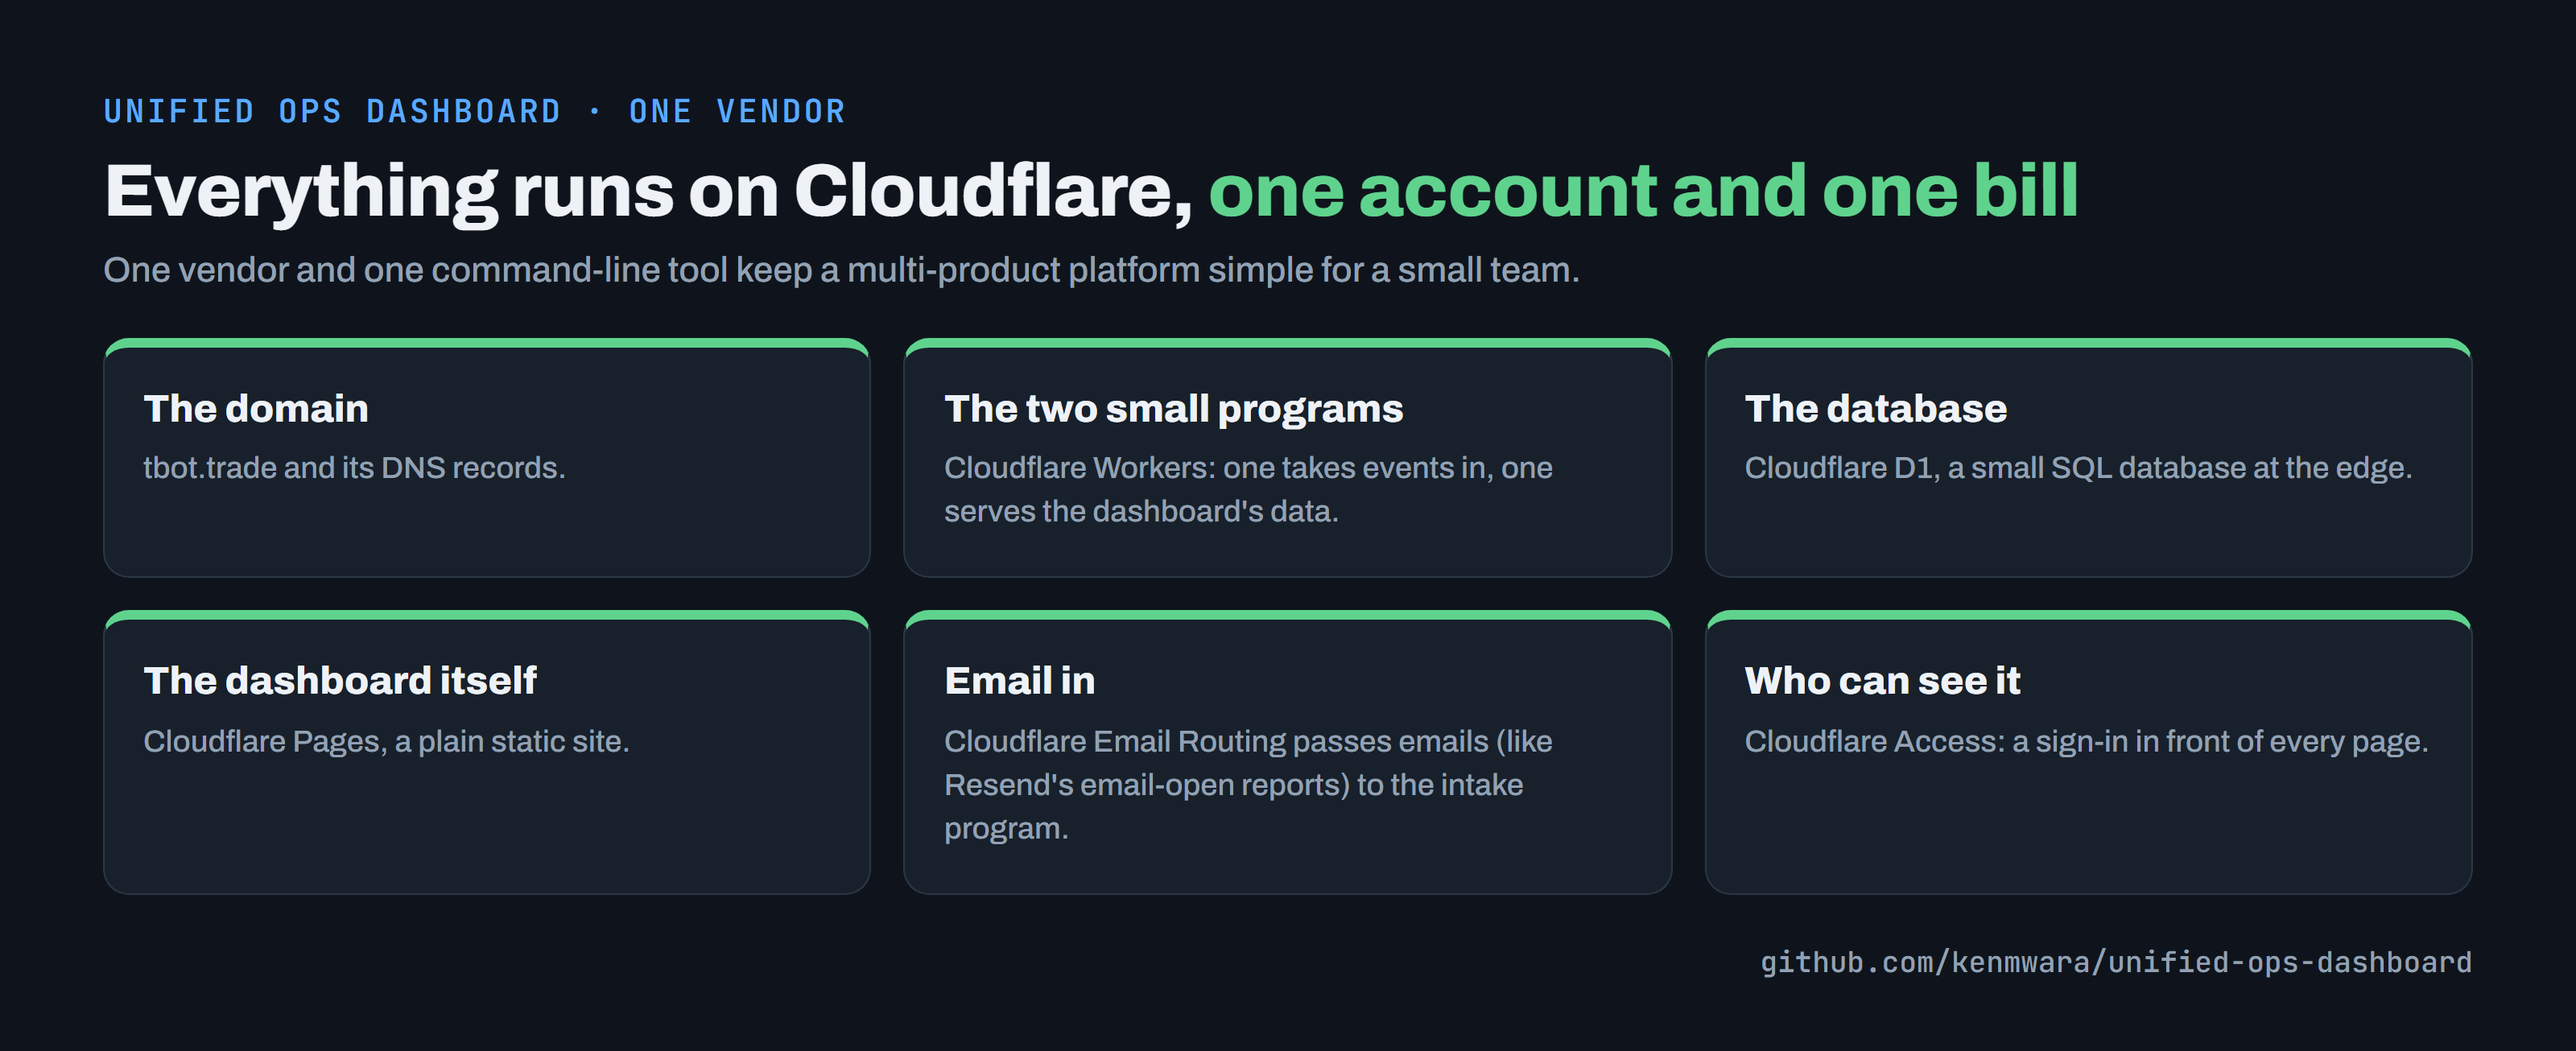
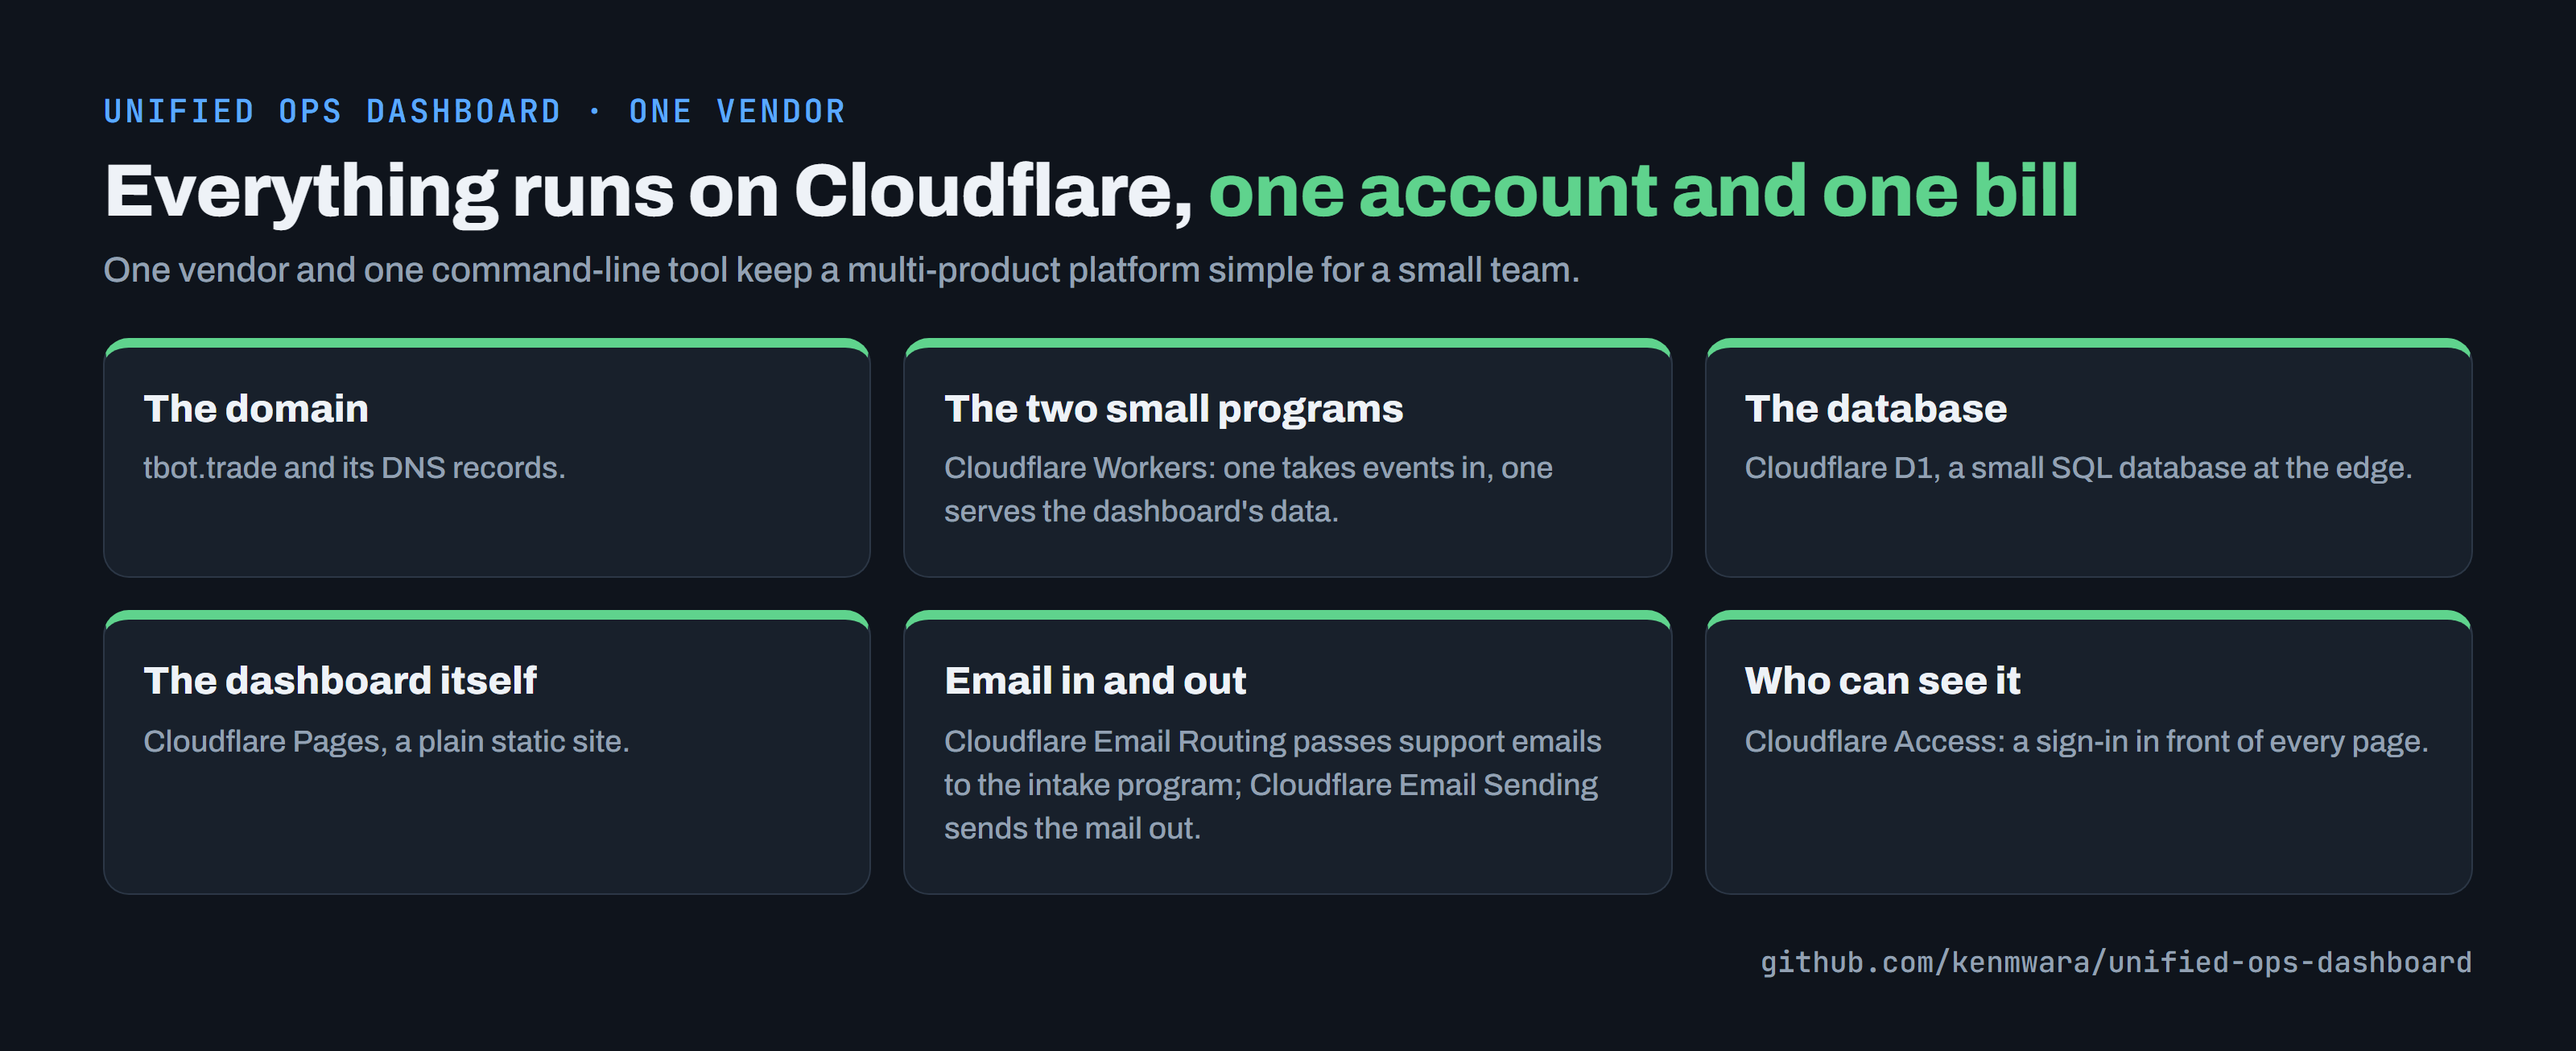
README: At a glance flow (one update, product to screen); email now Cloudflare Email Sending (Resend replaced 1 Oct 2026), architecture + Cloudflare frames re-rendered

Changed region(s): [[0.3438, 0.6738, 0.625, 0.7963], [0.4062, 0.6432, 0.5, 0.6738]]

diff --git a/README.md b/README.md
@@ -5,12 +5,18 @@
 > One dashboard for every product: sales, sign-ups, replies and errors from each app land in one place, so it's easy to see what's working each week.
 
 🌐 **Live:** ops.tbot.trade *(behind Cloudflare Access — operator only; see screenshots below)*
-🏗 **Stack:** Cloudflare D1 + Workers + Pages + Email Routing + Resend
+🏗 **Stack:** Cloudflare D1 + Workers + Pages + Email Routing + Email Sending
 🔒 **Source:** private — this README + screenshots are the showcase
 
 ---
 
 <img src="images/flow.png" width="100%" alt="How it works, in five steps. 1. Products send updates: Sales, sign-ups, replies and errors from every product. 2. Each update is checked: It must carry the right product's key, and payments must be signed. 3. Stored once, never edited: One database; duplicates are dropped. 4. Summaries are built: Totals, a timeline of incidents, and questions you can ask in plain English. 5. The owner sees it all: A private dashboard behind a login wall; alerts to a phone. Safeguards: Who can write: Only a product with its own key can send updates; Trust: Nothing is changed after the fact; Who can read: Every page needs a sign-in.">
+
+## At a glance
+
+<img src="images/event-flow.png" width="100%" alt="Flow diagram of one update, from a product to the screen. A product sends an update: a sale, a sign-up, a reply or an error. It goes to the intake program, carrying that product's own secret key. Decision: does the key match a known product? No: turned away, nothing saved; the intake program is the only way into the database. Yes: the key decides which product it is, and the update cannot claim to be another. Decision: is the update in the right shape? No: turned away, with the problems listed; unknown kinds of update are refused. Yes: saved once, never edited, and a repeat of the same update is ignored. A phone alert goes out for each saved update, unless the product sent its own. The owner sees it on a private dashboard, behind a sign-in. Side notes: payments and forms arrive by their own doors, each signature-checked, and join at the same save; retries are safe, so a payment sent twice is still saved once.">
+
+<sub>Editable diagram: [images/event-flow.drawio](images/event-flow.drawio) (opens in diagrams.net).</sub>
 
 ## Screenshots
 
@@ -18,14 +24,14 @@
 
 ## What this is
 
-Every product generates different event types — Stripe charges, Resend opens, T BOT trade fills, YouTube views, lead form submissions, market settlements. Before consolidation, each product was monitored in its own console, with no single view of which product was performing in a given week.
+Every product generates different event types — Stripe charges, support emails, T BOT trade fills, YouTube views, lead form submissions, market settlements. Before consolidation, each product was monitored in its own console, with no single view of which product was performing in a given week.
 
 The Unified Ops Dashboard is a single web app that ingests events from every product, stores them in one D1 table, and renders unified rollups: 7-day revenue, leads, email opens, T BOT P&L, per-funnel conversion. One screen, full picture.
 
 ## Architecture
 
 
-<img src="images/architecture.png" width="100%" alt="Architecture diagram of the Unified Ops Dashboard. Products (T BOT, Canadian PR Mastery, Lean Body Blueprint, Reinvention Blueprint, JobScout, the web studio), webhooks (Stripe, signature-checked; Resend; Tally) and support email via Cloudflare Email Routing write to one Cloudflare ingest worker. Guard 1: the project comes from each product's own secret, never the body; Stripe needs an HMAC signature within a 5-minute window; every body is schema-validated. Guard 2: events land in one can't-be-edited D1 table, unified-events, de-duplicated on project and source id and never migrated in production; it is also T BOT's SIEM. The ops-read-api serves events, stats, incidents with a daily sweep, address reputation and Ask the SOAR, where Claude plans a search from an allow-list and never writes SQL. Guard 3: ops.tbot.trade on Pages sits behind Cloudflare Access with its default hostname redirected. Dev twins run on their own D1 with no routes or crons; GitHub runs the typecheck and the rule, schema and hunt checks before every deploy.">
+<img src="images/architecture.png" width="100%" alt="Architecture diagram of the Unified Ops Dashboard. Products (T BOT, Canadian PR Mastery, Lean Body Blueprint, Reinvention Blueprint, JobScout, the web studio), webhooks (Stripe, signature-checked; Tally) and support email via Cloudflare Email Routing write to one Cloudflare ingest worker. Guard 1: the project comes from each product's own secret, never the body; Stripe needs an HMAC signature within a 5-minute window; every body is schema-validated. Guard 2: events land in one can't-be-edited D1 table, unified-events, de-duplicated on project and source id and never migrated in production; it is also T BOT's SIEM. The ops-read-api serves events, stats, incidents with a daily sweep, address reputation and Ask the SOAR, where Claude plans a search from an allow-list and never writes SQL. Guard 3: ops.tbot.trade on Pages sits behind Cloudflare Access with its default hostname redirected. Dev twins run on their own D1 with no routes or crons; GitHub runs the typecheck and the rule, schema and hunt checks before every deploy.">
 
 ## Key design decisions
 
@@ -58,7 +64,7 @@ Events are never updated, never deleted. Corrections are new events. Total sourc
 
 ### 4. Cloudflare-native end to end
 
-<img src="images/ops-cloudflare.png" width="100%" alt="Everything runs on Cloudflare, one account and one bill. One vendor and one command-line tool keep a multi-product platform simple for a small team. The domain: tbot.trade and its DNS records. The two small programs: Cloudflare Workers: one takes events in, one serves the dashboard's data. The database: Cloudflare D1, a small SQL database at the edge. The dashboard itself: Cloudflare Pages, a plain static site. Email in: Cloudflare Email Routing passes emails (like Resend's email-open reports) to the intake program. Who can see it: Cloudflare Access: a sign-in in front of every page.">
+<img src="images/ops-cloudflare.png" width="100%" alt="Everything runs on Cloudflare, one account and one bill. One vendor and one command-line tool keep a multi-product platform simple for a small team. The domain: tbot.trade and its DNS records. The two small programs: Cloudflare Workers: one takes events in, one serves the dashboard's data. The database: Cloudflare D1, a small SQL database at the edge. The dashboard itself: Cloudflare Pages, a plain static site. Email in and out: Cloudflare Email Routing passes support emails to the intake program; Cloudflare Email Sending sends the mail out. Who can see it: Cloudflare Access: a sign-in in front of every page.">
 
 <details><summary>The services as a table</summary>
 
@@ -68,7 +74,7 @@ Events are never updated, never deleted. Corrections are new events. Total sourc
 | Edge routing | Workers (ingest, read-api) |
 | Database | D1 (SQLite at the edge) |
 | Static site | Pages (the dashboard itself) |
-| Webhooks in | Email Routing → ingest worker (e.g. Resend opens) |
+| Webhooks in | Email Routing → ingest worker (support email) |
 | Auth | Cloudflare Access |
 
 </details>
@@ -87,13 +93,13 @@ Events are never updated, never deleted. Corrections are new events. Total sourc
 - **Workers:** TypeScript, with every incoming event checked against a fixed format (Zod)
 - **D1:** Single migration (`0001_events.sql`), never altered in production
 - **Pages:** vanilla HTML/CSS/JS (no framework — render is fast and the markup is auditable)
-- **Email webhook bridges:** Cloudflare Email Routing → custom address → Worker that parses Resend digest emails into events
+- **Email webhook bridges:** Cloudflare Email Routing → custom address → Worker that turns each support email into an event and forwards it to Gmail
 - **Local dev:** `wrangler dev` for both workers; `pnpm db:migrate:local` mirrors prod schema; dev secrets in `.dev.vars`
 
 ## What was hard
 
 - **Event-shape ambiguity across products.** "What counts as a lead?" was different per product. Solved by keeping the `event_type` enum small (~6 values) and pushing all per-product specifics into the `metadata` JSON.
-- **Deduplication of webhook deliveries.** Resend, Stripe and the internal products all retry. Solved with the `(project, source_id)` unique index — duplicate POSTs are silent no-ops.
+- **Deduplication of webhook deliveries.** Stripe and the internal products both retry. Solved with the `(project, source_id)` unique index — duplicate POSTs are silent no-ops.
 - **One database, many consumers.** Solved by splitting write (ingest) and read (read-api) into separate workers with different D1 bindings. The read-api can be rate-limited or cached aggressively without affecting ingestion.
 
 ## Security operations on the same event store
